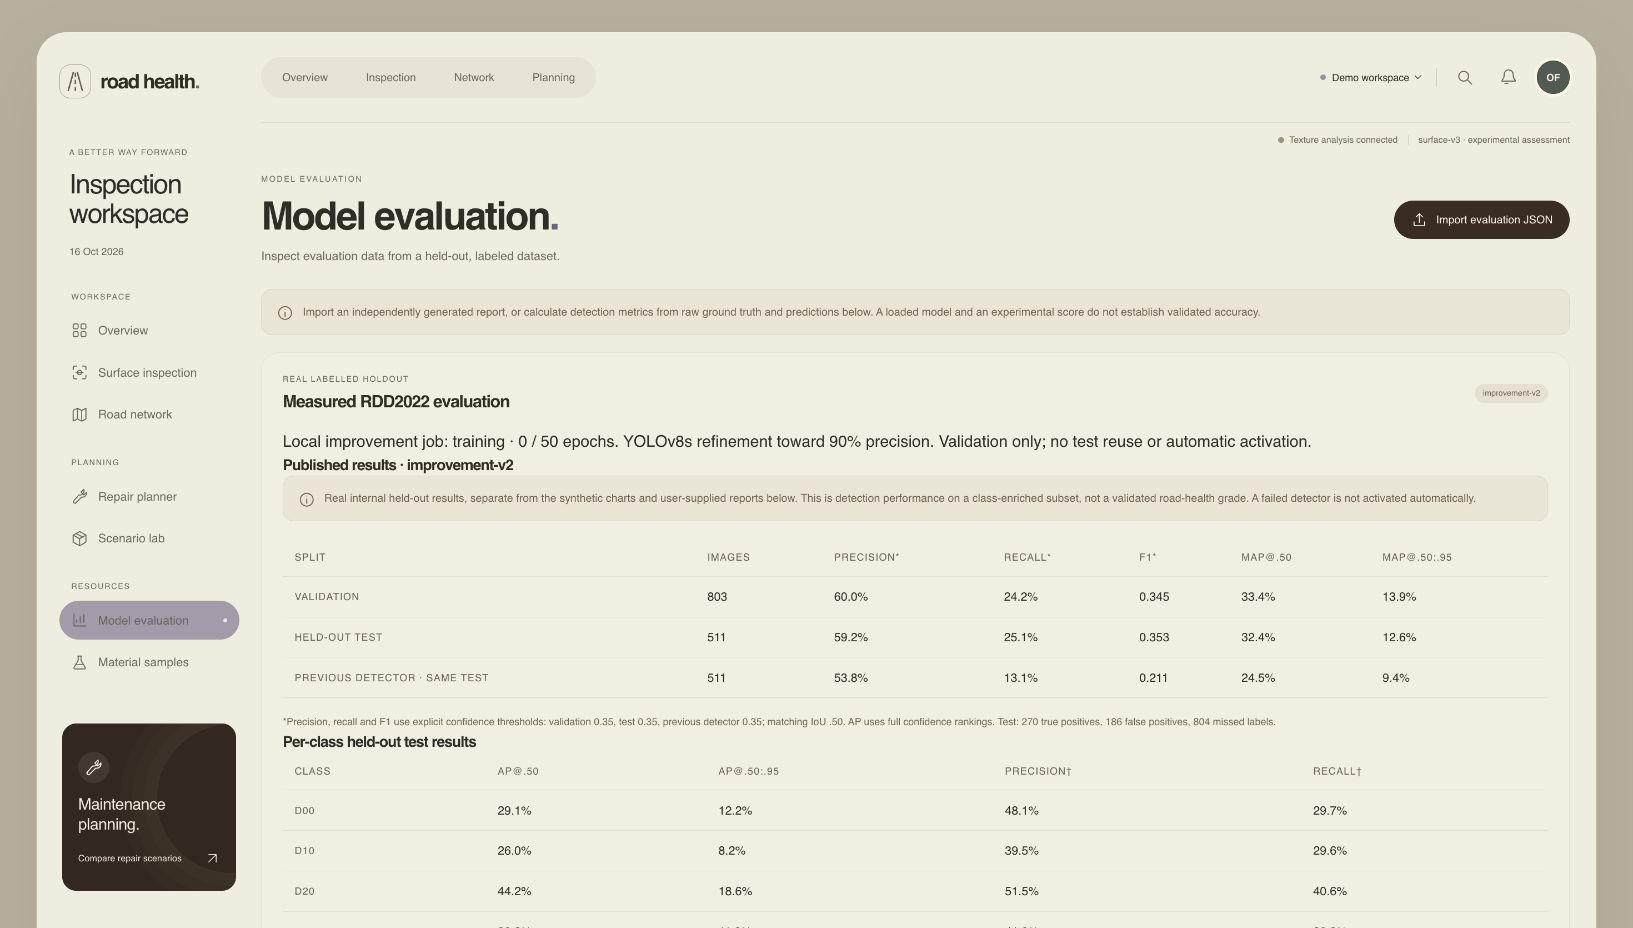
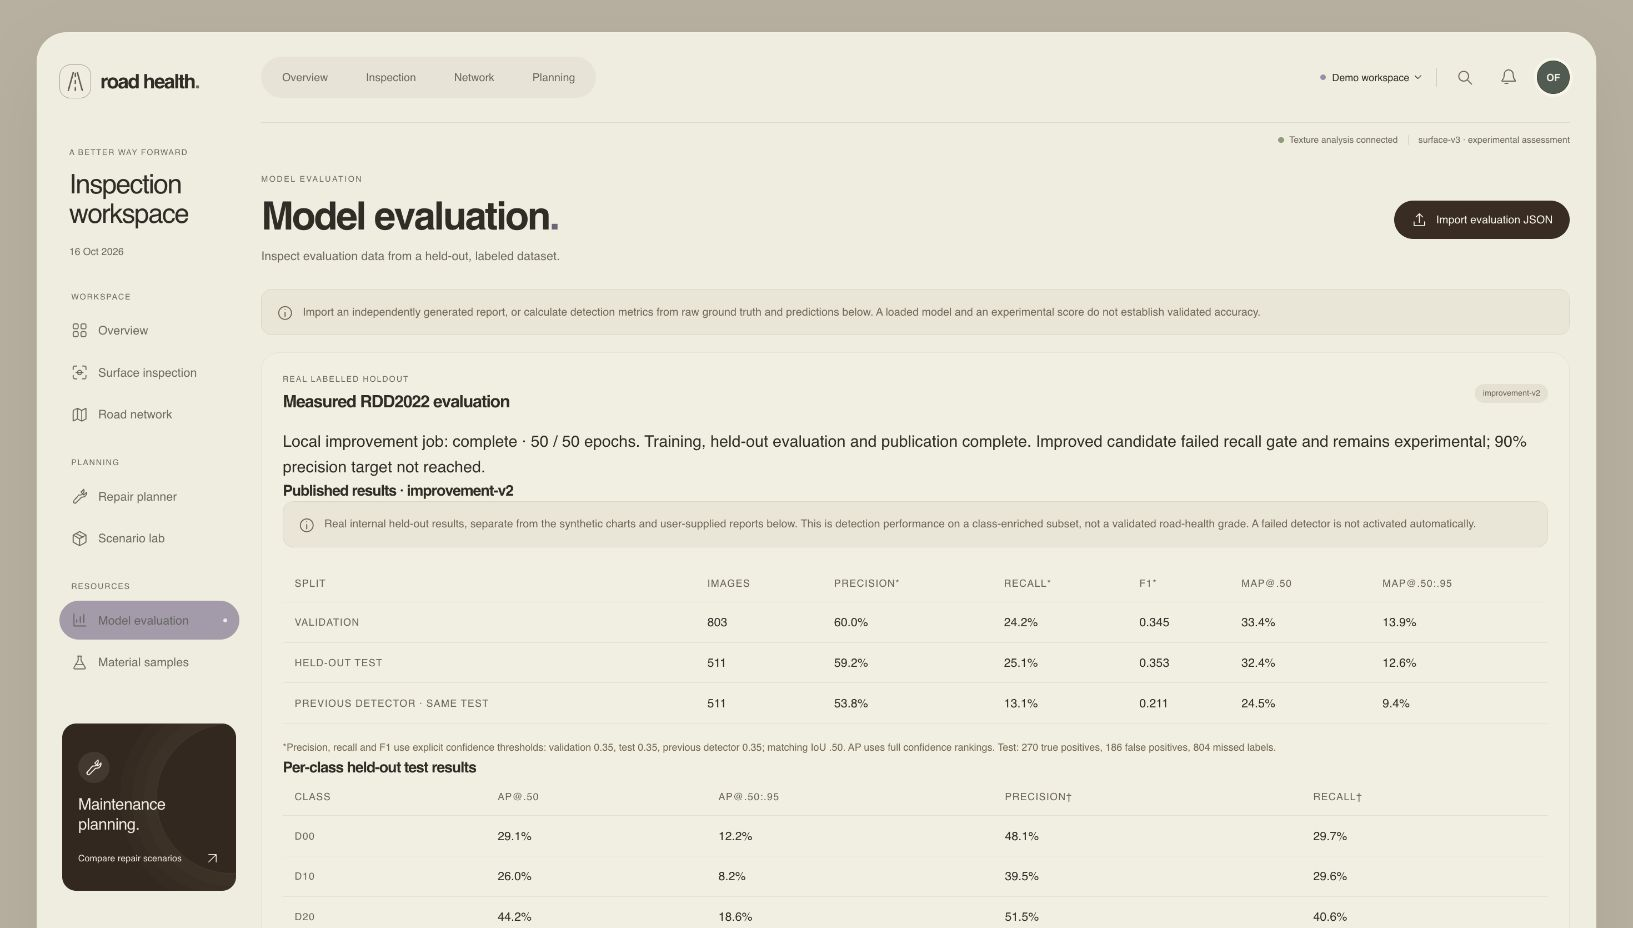
Stop deadline-incompatible retraining and clarify completed-model results

diff --git a/frontend/src/components/MeasuredEvaluation.tsx b/frontend/src/components/MeasuredEvaluation.tsx
@@ -25,8 +25,8 @@ export function MeasuredEvaluation(){
  const percent=(n:number)=>(n*100).toFixed(1)+'%';
  return <section className="panel"><PanelTitle title="Measured RDD2022 evaluation" eyebrow="REAL LABELLED HOLDOUT"><Badge>{report?.run??'Loading…'}</Badge></PanelTitle>
  {progress&&<p role="status">Local improvement job: {progress.phase.replaceAll('_',' ')}{progress.completed_epochs!=null?' · '+progress.completed_epochs+' / '+progress.target_epochs+' epochs':''}{progress.collected_images!=null?' · '+progress.collected_images+' / '+progress.target_images+' images':''}. {progress.notice}</p>}
- {progress?.heartbeat_stale&&!['complete','failed','not_running','status_unavailable'].includes(progress.phase)&&<Note tone="warning">Training status has not updated recently. The process may be paused or stopped; the last saved epoch is shown.</Note>}
- {progress?.latest_validation&&<div aria-label="Interim training validation">
+ {progress?.heartbeat_stale&&!['complete','failed','stopped','not_running','status_unavailable'].includes(progress.phase)&&<Note tone="warning">Training status has not updated recently. The process may be paused or stopped; the last saved epoch is shown.</Note>}
+ {progress?.phase==='training'&&progress.latest_validation&&<div aria-label="Interim training validation">
  <h3>Current run · interim validation, epoch {progress.latest_validation.epoch}</h3>
  <p>Precision {percent(progress.latest_validation.precision)} · Recall {percent(progress.latest_validation.recall)} · mAP@.50 {percent(progress.latest_validation.map50)} · mAP@.50:.95 {percent(progress.latest_validation.map50_95)}</p>
  <p className="fine-print">These are training-time validation metrics at Ultralytics' operating point. They can fluctuate between epochs and are separate from final test results below. Higher confidence thresholds may reduce false positives while also missing more defects.</p>

diff --git a/frontend/tests/MeasuredEvaluation.test.tsx b/frontend/tests/MeasuredEvaluation.test.tsx
@@ -17,6 +17,7 @@ describe('live training and final results',()=>{
   complete=true;await act(async()=>{await vi.advanceTimersByTimeAsync(30000)});
   expect(screen.getByText('improvement-v2')).toBeInTheDocument();
   expect(screen.getByRole('status')).toHaveTextContent('complete');
+  expect(screen.queryByLabelText('Interim training validation')).not.toBeInTheDocument();
  });
  it('warns when the heartbeat is stale',async()=>{
   vi.mocked(request).mockImplementation(async path=>path.includes('training-status')?{phase:'training',heartbeat_stale:true}:{run:'compact-v1',test:metrics,validation:metrics,activation:{},release_url:'#'});

diff --git a/MODEL_IMPROVEMENT.md b/MODEL_IMPROVEMENT.md
@@ -10,6 +10,8 @@ The [measured reports](docs/datasets/results/improvement-v2/README.md) and [rele
 
 ## Follow-up YOLOv8s experiment
 
+**Stopped for the project deadline.** No YOLOv8s training is currently running. Partial weights are preserved, and its early-epoch metrics do not replace the completed v2 detector results. The configuration below records the attempted experiment; rerunning it starts an expensive job and is not needed to launch the application.
+
 A validation-only trial of the same frozen v2 checkpoint at 1024 px reduced precision from 60.0% to 53.0%, recall from 24.2% to 23.6% and mAP@.50 from 33.4% to 30.4%. That setting was rejected. See [the reproducible comparison](docs/datasets/results/precision-refinement-v3/resolution-check.json).
 
 The next bounded experiment trains **YOLOv8s** from official generic pretrained weights on the same 2,851 training images, with the same 803-image validation split. It uses up to 50 epochs, 768 px, batch 1, AdamW learning rate .001, seed 42, mosaic .5, scale .3, rotation 2 degrees and patience 15. Capacity and initialization differ from the nano warm start, so the experiment does not isolate a single causal factor.

diff --git a/README.md b/README.md
@@ -134,7 +134,7 @@ These results support an improvement on this internal test. They do **not** esta
 
 </details>
 
-The follow-up experiment uses **YOLOv8s**, initialized from official pretrained weights, for up to 50 epochs at 768 px. A completed validation-only 1024 px trial performed worse and was rejected. This refinement does not re-evaluate the previously exposed test or activate a model without fresh confirmation. [Experiment protocol](MODEL_IMPROVEMENT.md#follow-up-yolov8s-experiment).
+The longer **YOLOv8s follow-up was stopped to meet the project deadline**; its partial checkpoints are preserved. The completed YOLOv8n model and the measured results above remain the baseline. A validation-only 1024 px trial performed worse and was rejected. Fast postprocessing checks use saved validation predictions, without retraining or reusing the exposed test. [Experiment protocol](MODEL_IMPROVEMENT.md#follow-up-yolov8s-experiment).
 
 - [Measured reports and activation decision](docs/datasets/results/improvement-v2/README.md)
 - [Checkpoint, dataset, and evaluation evidence](https://github.com/sanviq/3x-RQD/releases/tag/rdd2022-improvement-v2)

diff --git a/docs/images/README.md b/docs/images/README.md
@@ -6,6 +6,6 @@ Captured from the running local Road Health application on 16 October 2026 using
 - `network-demo.jpg`: sample road network, synthetic annotations and fixture confidence values.
 - `rdd2022-human-annotations.jpg`: real RDD2022 India training preview with human ground-truth boxes. Road imagery is attributed to the dataset authors under [CC BY 4.0](https://figshare.com/articles/dataset/21431547).
 - `driving-simulation.jpg`: synthetic wheel/suspension scene with assumed road and vehicle parameters.
-- `model-evaluation.jpg`: measured v2 validation/test comparison and the separate follow-up training status at capture time.
+- `model-evaluation.jpg`: measured v2 validation/test comparison and its completed 50-epoch status.
 
 Refresh screenshots through the actual UI when behavior changes. Training status in a static screenshot is historical; use the Model evaluation page for the current local job. Existing country preview photographs in `data/examples/rdd2022/` retain their original attribution metadata.
